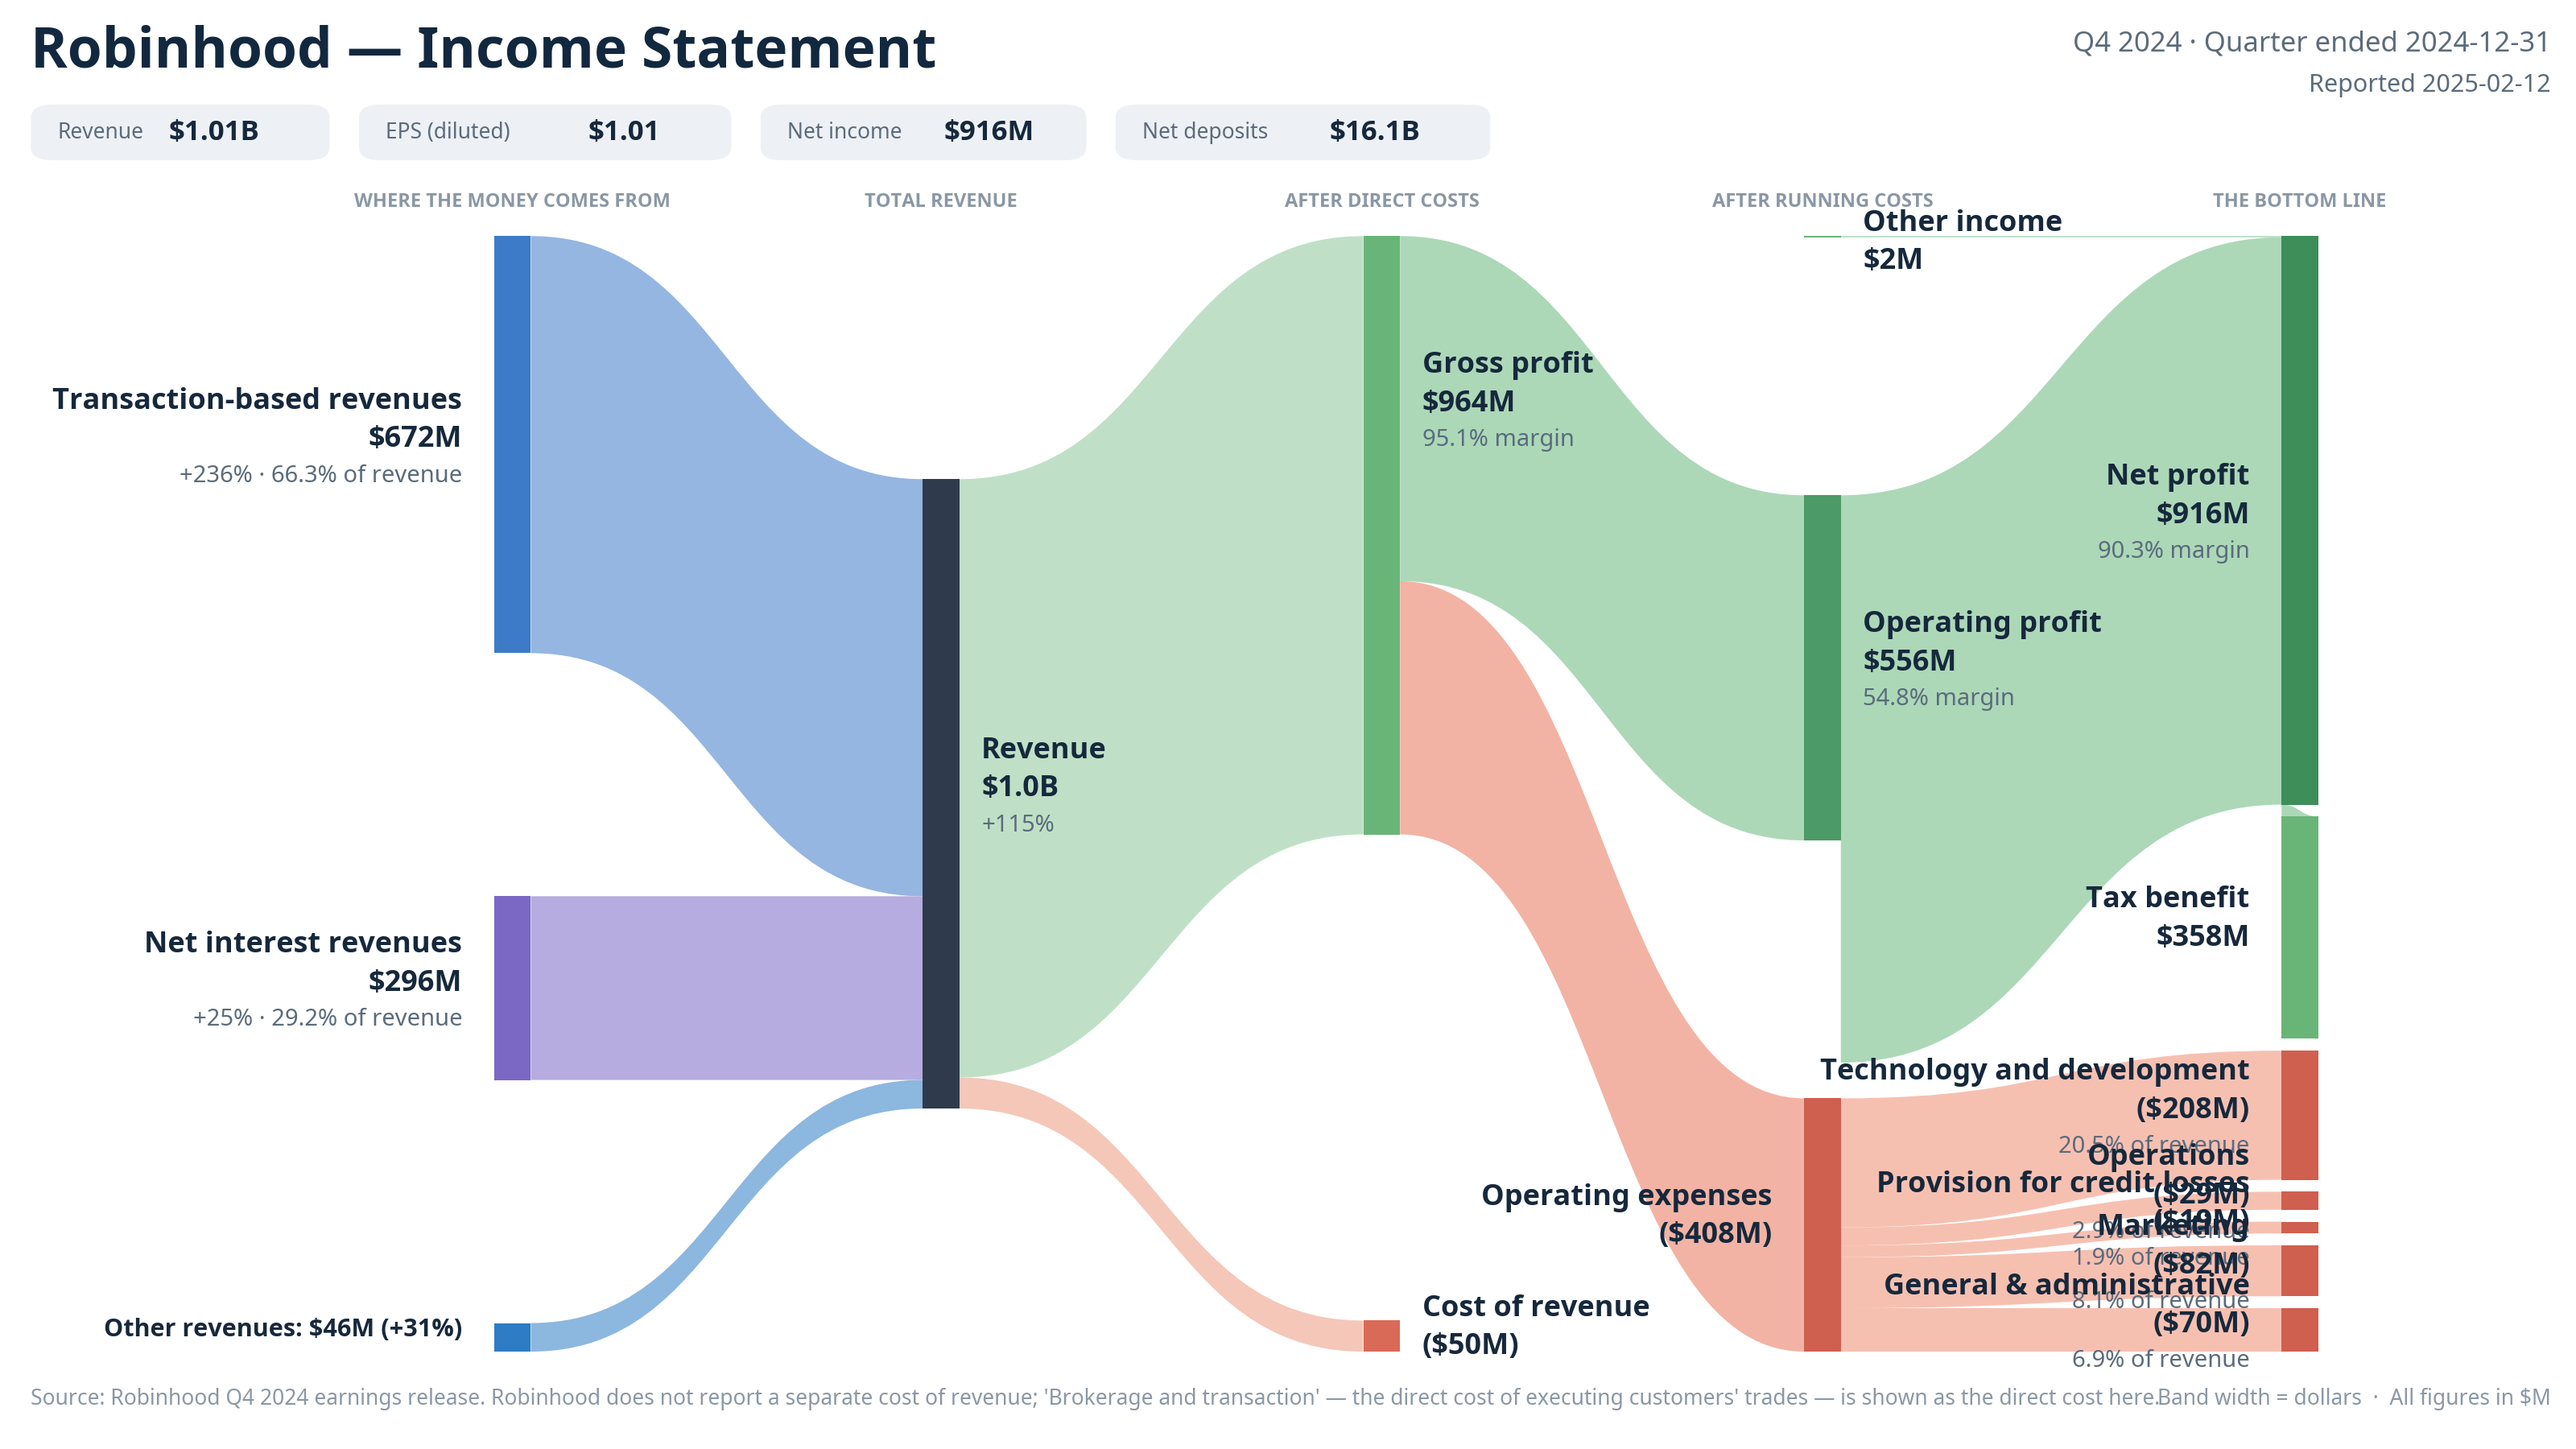
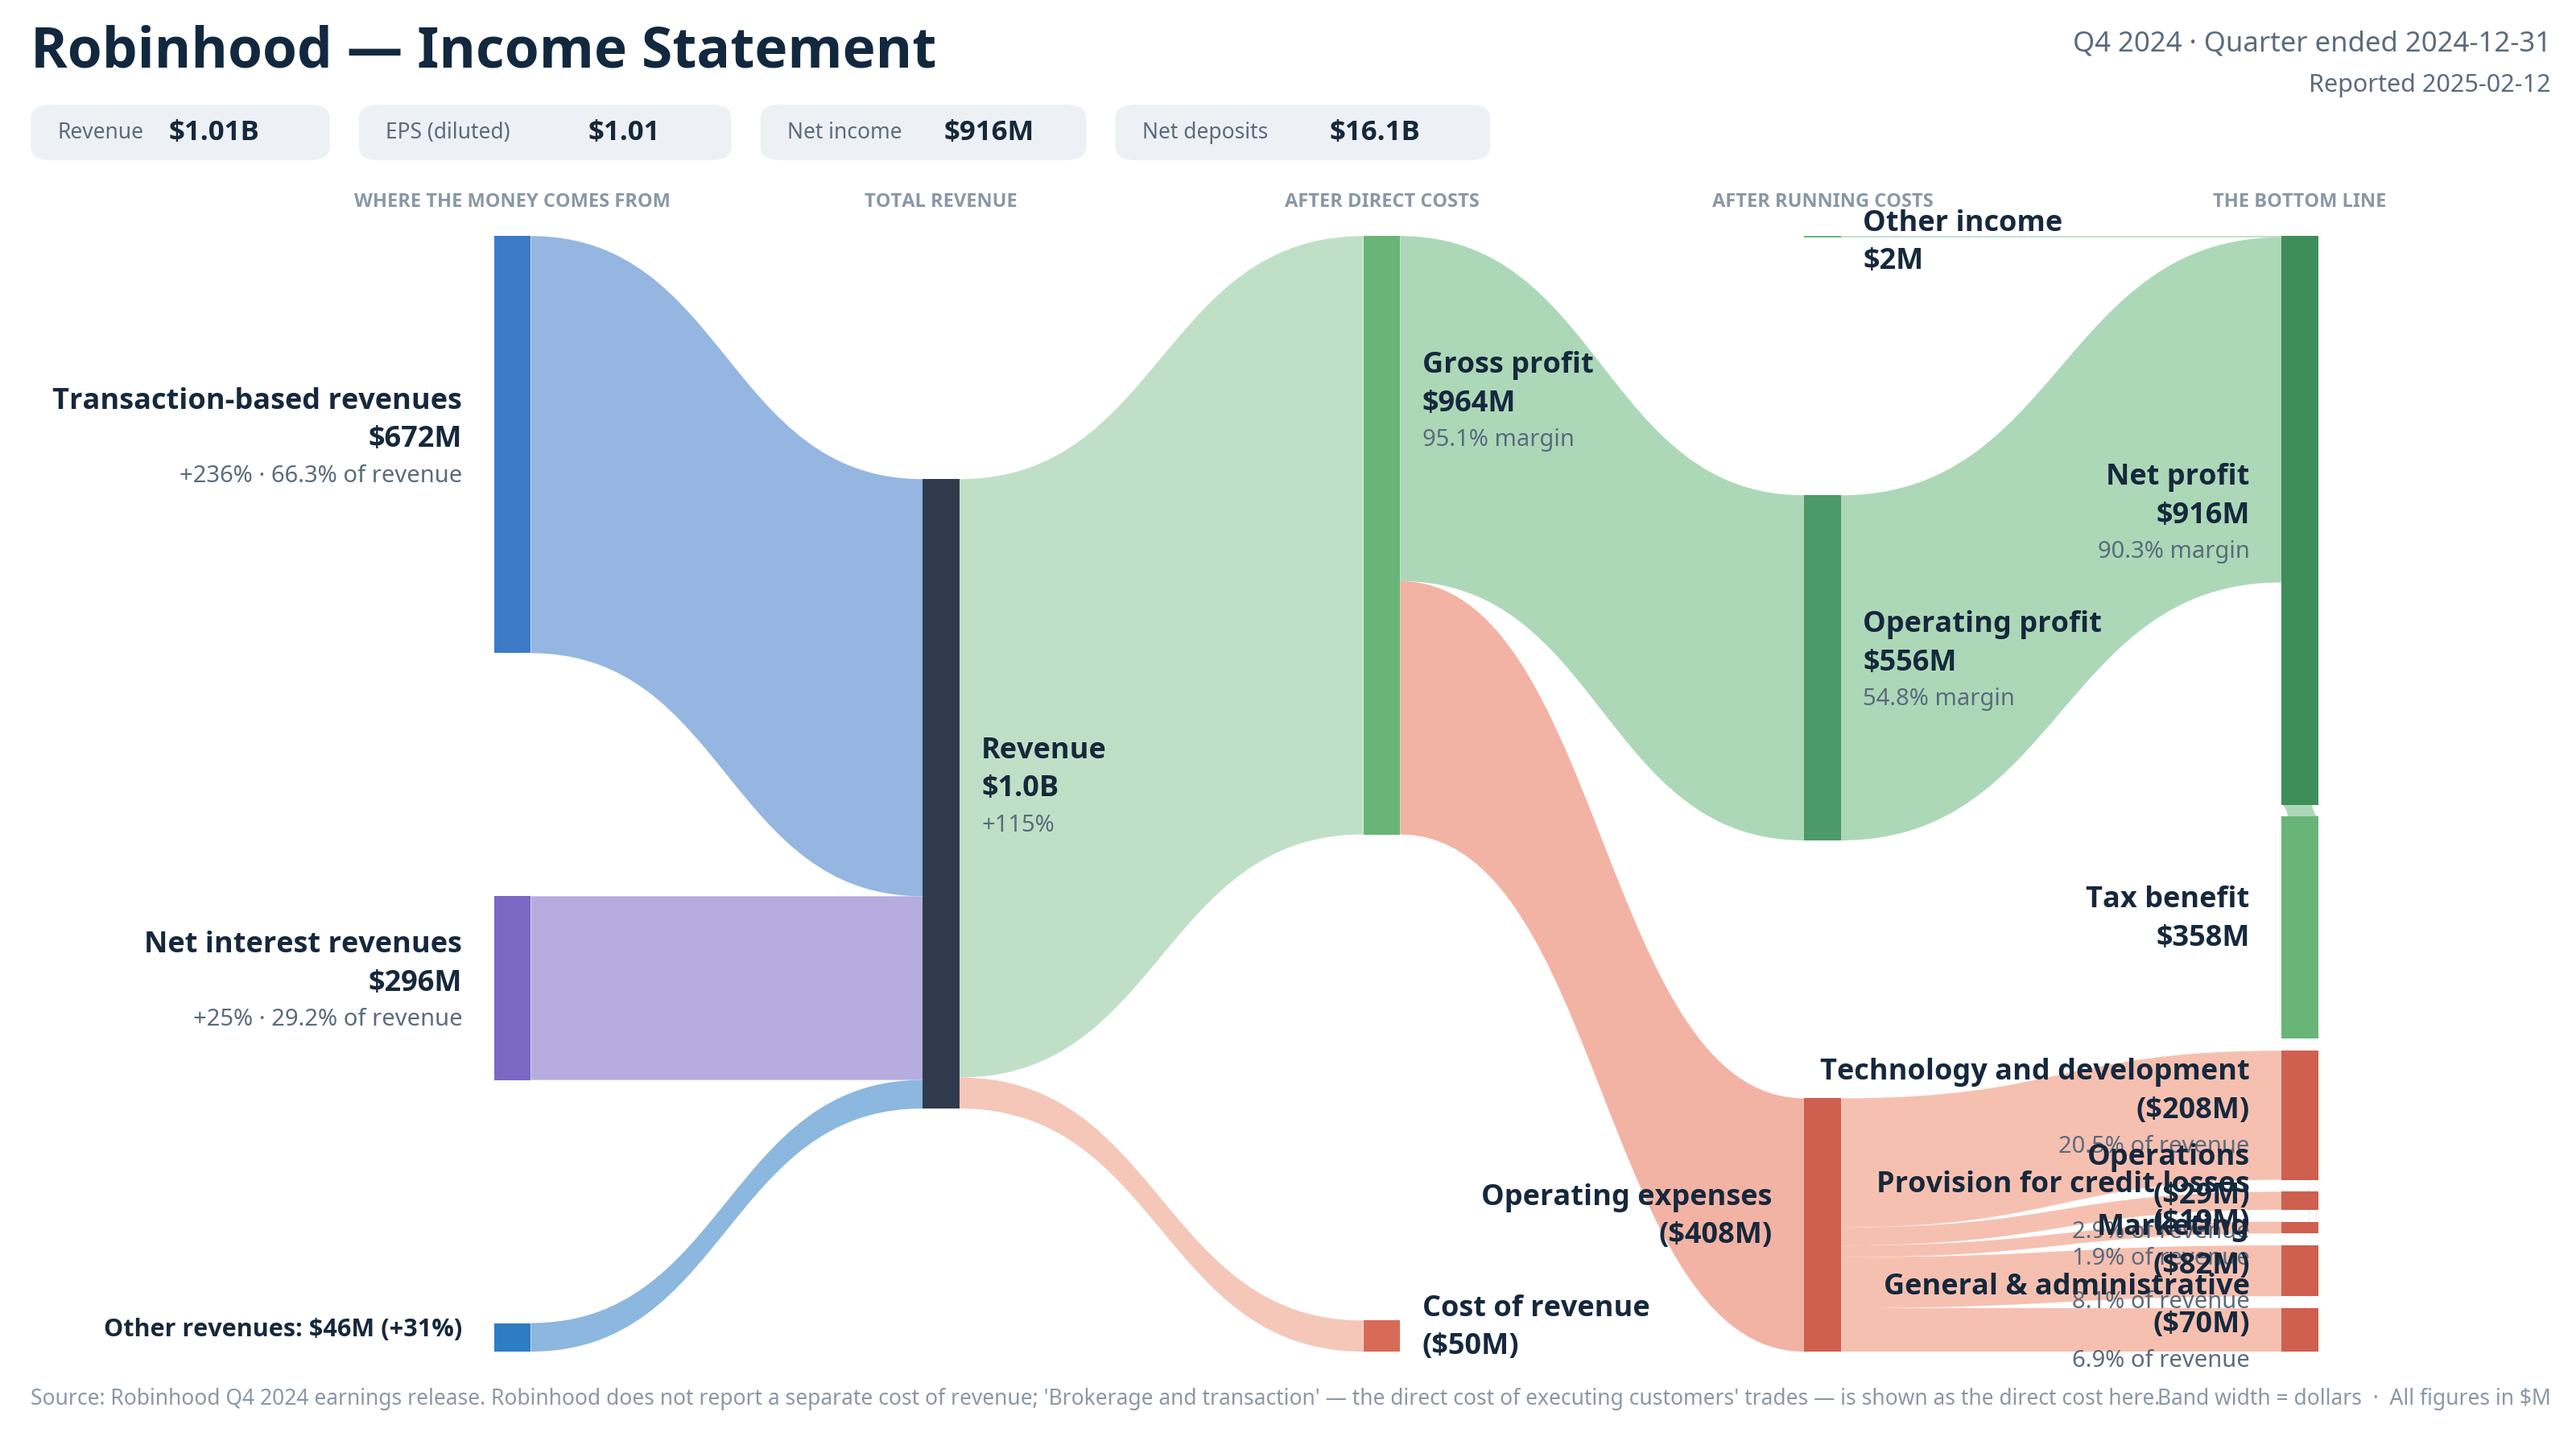
Fix HOOD 2024-q4 chart: op->net link tax-benefit double-count (0.914 -> 0.556; inflows now = net 0.916)

Changed region(s): [[0.6875, 0.4044, 0.9062, 0.7467]]

diff --git a/docs/earnings/hood/2024-q4/index.html b/docs/earnings/hood/2024-q4/index.html
@@ -213,7 +213,7 @@
   </footer>
 </div>
 </div>
-<script>window.REPORT = {"revenueB":1.014,"nodes":{"seg0":{"name":"Transaction-based revenues","amt":"$672M","value":0.672,"col":0,"color":"#3D7BC8","note":"+236% \u00b7 66.3% of revenue","plain":"Fees from customers' trades \u2014 crypto $358M, options $222M and equities $61M.","quarter":"66.3% of all revenue this quarter."},"seg1":{"name":"Net interest revenues","amt":"$296M","value":0.296,"col":0,"color":"#7A68C4","note":"+25% \u00b7 29.2% of revenue","plain":"Interest on customers' cash and margin loans, plus securities lending \u2014 up on growth in interest-earning assets, partly offset by a lower federal funds rate.","quarter":"29.2% of all revenue this quarter."},"seg2":{"name":"Other revenues","amt":"$46M","value":0.046,"col":0,"color":"#2E7CC4","note":"+31% \u00b7 4.5% of revenue","plain":"Mostly Robinhood Gold subscriptions \u2014 2.6M subscribers, up 86%.","quarter":"4.5% of all revenue this quarter.","compact":true,"compactLabel":"Other revenues: $46M (+31%)"},"rev":{"name":"Revenue","amt":"$1.0B","value":1.014,"col":1,"color":"#2F3B4C","note":"+115%","plain":"All the money Robinhood took in during the three months \u2014 the top line everything else is carved out of.","quarter":"$1.0B, +115% vs a year ago."},"gross":{"name":"Gross profit","amt":"$964M","value":0.964,"col":2,"color":"#69B578","note":"95.1% margin","plain":"What's left after paying the direct cost of delivering what was sold.","quarter":"95.1 cents of every revenue dollar survived this step."},"cost":{"name":"Cost of revenue","amt":"($50M)","value":0.05,"col":2,"color":"#D96A57","note":"","plain":"The direct bill for making and delivering what was sold.","quarter":"$50M \u2014 about 4.9 cents per revenue dollar."},"otherin":{"name":"Other income","amt":"$2M","value":0.002,"col":3,"color":"#69B578","note":"","plain":"Other income, net was $2M \u2014 small next to the main business. The tax line is a $358M benefit, driven by a $369M deferred tax benefit from releasing the valuation allowance on most of Robinhood's deferred tax assets.","quarter":"$2M added to profit."},"op":{"name":"Operating profit","amt":"$556M","value":0.556,"col":3,"color":"#4C9A67","note":"54.8% margin","plain":"What the core business earned after all running costs, before tax and other income.","quarter":"A 54.8% margin."},"opex":{"name":"Operating expenses","amt":"($408M)","value":0.408,"col":3,"color":"#CF5F4E","note":"","plain":"The cost of running and growing the company: research, selling, and the back office.","quarter":"$408M total, split into Technology and development, Operations, Provision for credit losses, Marketing, General & administrative on the right."},"ox0":{"name":"Technology and development","amt":"($208M)","value":0.208,"col":4,"color":"#CF5F4E","note":"20.5% of revenue","plain":"Engineers and the platform \u2014 up 6%.","quarter":"$208M \u2014 20.5% of revenue."},"ox1":{"name":"Operations","amt":"($29M)","value":0.029,"col":4,"color":"#CF5F4E","note":"2.9% of revenue","plain":"Customer support and running the service \u2014 up 12%.","quarter":"$29M \u2014 2.9% of revenue."},"ox2":{"name":"Provision for credit losses","amt":"($19M)","value":0.019,"col":4,"color":"#CF5F4E","note":"1.9% of revenue","plain":"Money set aside for customer loans that may not be repaid \u2014 up 36%.","quarter":"$19M \u2014 1.9% of revenue."},"ox3":{"name":"Marketing","amt":"($82M)","value":0.082,"col":4,"color":"#CF5F4E","note":"8.1% of revenue","plain":"Advertising and promotions to win new customers \u2014 up 91%.","quarter":"$82M \u2014 8.1% of revenue."},"ox4":{"name":"General & administrative","amt":"($70M)","value":0.07,"col":4,"color":"#CF5F4E","note":"6.9% of revenue","plain":"Legal, finance and head office \u2014 down 47%, because the line includes a $55M benefit from reversing a regulatory settlement accrual.","quarter":"$70M \u2014 6.9% of revenue."},"net":{"name":"Net profit","amt":"$916M","value":0.916,"col":4,"color":"#3E8E5A","note":"90.3% margin","plain":"The bottom line \u2014 what Robinhood actually earned after everything.","quarter":"$916M \u2014 about 90.3 cents of every revenue dollar."},"taxben":{"name":"Tax benefit","amt":"$358M","value":0.358,"col":4,"color":"#69B578","note":"","plain":"The tax line added money back instead of taking it \u2014 a $358M benefit this quarter, drawn here as its own source into net profit.","quarter":"$358M added to the bottom line."}},"cols":[["seg0","seg1","seg2"],["rev"],["gross","cost"],["otherin","op","opex"],["net","taxben","ox0","ox1","ox2","ox3","ox4"]],"links":[{"s":"seg0","d":"rev","v":0.672,"c":"#94b6e1","amt":"$672M"},{"s":"seg1","d":"rev","v":0.296,"c":"#b6acdf","amt":"$296M"},{"s":"seg2","d":"rev","v":0.046,"c":"#8cb7df","amt":"$46M"},{"s":"rev","d":"gross","v":0.964,"c":"#BFE0C6","amt":"$964M"},{"s":"rev","d":"cost","v":0.05,"c":"#F4C7B9","amt":"$50M"},{"s":"gross","d":"op","v":0.556,"c":"#ACD8B8","amt":"$556M"},{"s":"gross","d":"opex","v":0.408,"c":"#F2B3A4","amt":"$408M"},{"s":"op","d":"net","v":0.914,"c":"#ACD8B8","amt":"$914M"},{"s":"otherin","d":"net","v":0.002,"c":"#ACD8B8","amt":"$2M"},{"s":"taxben","d":"net","v":0.358,"c":"#ACD8B8","amt":"$358M"},{"s":"opex","d":"ox0","v":0.208,"c":"#F6C0B1","amt":"$208M"},{"s":"opex","d":"ox1","v":0.029,"c":"#F6C0B1","amt":"$29M"},{"s":"opex","d":"ox2","v":0.019,"c":"#F6C0B1","amt":"$19M"},{"s":"opex","d":"ox3","v":0.082,"c":"#F6C0B1","amt":"$82M"},{"s":"opex","d":"ox4","v":0.07,"c":"#F6C0B1","amt":"$70M"}],"captions":["WHERE THE MONEY COMES FROM","TOTAL REVENUE","AFTER DIRECT COSTS","AFTER RUNNING COSTS","THE BOTTOM LINE"]};</script>
+<script>window.REPORT = {"revenueB":1.014,"nodes":{"seg0":{"name":"Transaction-based revenues","amt":"$672M","value":0.672,"col":0,"color":"#3D7BC8","note":"+236% \u00b7 66.3% of revenue","plain":"Fees from customers' trades \u2014 crypto $358M, options $222M and equities $61M.","quarter":"66.3% of all revenue this quarter."},"seg1":{"name":"Net interest revenues","amt":"$296M","value":0.296,"col":0,"color":"#7A68C4","note":"+25% \u00b7 29.2% of revenue","plain":"Interest on customers' cash and margin loans, plus securities lending \u2014 up on growth in interest-earning assets, partly offset by a lower federal funds rate.","quarter":"29.2% of all revenue this quarter."},"seg2":{"name":"Other revenues","amt":"$46M","value":0.046,"col":0,"color":"#2E7CC4","note":"+31% \u00b7 4.5% of revenue","plain":"Mostly Robinhood Gold subscriptions \u2014 2.6M subscribers, up 86%.","quarter":"4.5% of all revenue this quarter.","compact":true,"compactLabel":"Other revenues: $46M (+31%)"},"rev":{"name":"Revenue","amt":"$1.0B","value":1.014,"col":1,"color":"#2F3B4C","note":"+115%","plain":"All the money Robinhood took in during the three months \u2014 the top line everything else is carved out of.","quarter":"$1.0B, +115% vs a year ago."},"gross":{"name":"Gross profit","amt":"$964M","value":0.964,"col":2,"color":"#69B578","note":"95.1% margin","plain":"What's left after paying the direct cost of delivering what was sold.","quarter":"95.1 cents of every revenue dollar survived this step."},"cost":{"name":"Cost of revenue","amt":"($50M)","value":0.05,"col":2,"color":"#D96A57","note":"","plain":"The direct bill for making and delivering what was sold.","quarter":"$50M \u2014 about 4.9 cents per revenue dollar."},"otherin":{"name":"Other income","amt":"$2M","value":0.002,"col":3,"color":"#69B578","note":"","plain":"Other income, net was $2M \u2014 small next to the main business. The tax line is a $358M benefit, driven by a $369M deferred tax benefit from releasing the valuation allowance on most of Robinhood's deferred tax assets.","quarter":"$2M added to profit."},"op":{"name":"Operating profit","amt":"$556M","value":0.556,"col":3,"color":"#4C9A67","note":"54.8% margin","plain":"What the core business earned after all running costs, before tax and other income.","quarter":"A 54.8% margin."},"opex":{"name":"Operating expenses","amt":"($408M)","value":0.408,"col":3,"color":"#CF5F4E","note":"","plain":"The cost of running and growing the company: research, selling, and the back office.","quarter":"$408M total, split into Technology and development, Operations, Provision for credit losses, Marketing, General & administrative on the right."},"ox0":{"name":"Technology and development","amt":"($208M)","value":0.208,"col":4,"color":"#CF5F4E","note":"20.5% of revenue","plain":"Engineers and the platform \u2014 up 6%.","quarter":"$208M \u2014 20.5% of revenue."},"ox1":{"name":"Operations","amt":"($29M)","value":0.029,"col":4,"color":"#CF5F4E","note":"2.9% of revenue","plain":"Customer support and running the service \u2014 up 12%.","quarter":"$29M \u2014 2.9% of revenue."},"ox2":{"name":"Provision for credit losses","amt":"($19M)","value":0.019,"col":4,"color":"#CF5F4E","note":"1.9% of revenue","plain":"Money set aside for customer loans that may not be repaid \u2014 up 36%.","quarter":"$19M \u2014 1.9% of revenue."},"ox3":{"name":"Marketing","amt":"($82M)","value":0.082,"col":4,"color":"#CF5F4E","note":"8.1% of revenue","plain":"Advertising and promotions to win new customers \u2014 up 91%.","quarter":"$82M \u2014 8.1% of revenue."},"ox4":{"name":"General & administrative","amt":"($70M)","value":0.07,"col":4,"color":"#CF5F4E","note":"6.9% of revenue","plain":"Legal, finance and head office \u2014 down 47%, because the line includes a $55M benefit from reversing a regulatory settlement accrual.","quarter":"$70M \u2014 6.9% of revenue."},"net":{"name":"Net profit","amt":"$916M","value":0.916,"col":4,"color":"#3E8E5A","note":"90.3% margin","plain":"The bottom line \u2014 what Robinhood actually earned after everything.","quarter":"$916M \u2014 about 90.3 cents of every revenue dollar."},"taxben":{"name":"Tax benefit","amt":"$358M","value":0.358,"col":4,"color":"#69B578","note":"","plain":"The tax line added money back instead of taking it \u2014 a $358M benefit this quarter, drawn here as its own source into net profit.","quarter":"$358M added to the bottom line."}},"cols":[["seg0","seg1","seg2"],["rev"],["gross","cost"],["otherin","op","opex"],["net","taxben","ox0","ox1","ox2","ox3","ox4"]],"links":[{"s":"seg0","d":"rev","v":0.672,"c":"#94b6e1","amt":"$672M"},{"s":"seg1","d":"rev","v":0.296,"c":"#b6acdf","amt":"$296M"},{"s":"seg2","d":"rev","v":0.046,"c":"#8cb7df","amt":"$46M"},{"s":"rev","d":"gross","v":0.964,"c":"#BFE0C6","amt":"$964M"},{"s":"rev","d":"cost","v":0.05,"c":"#F4C7B9","amt":"$50M"},{"s":"gross","d":"op","v":0.556,"c":"#ACD8B8","amt":"$556M"},{"s":"gross","d":"opex","v":0.408,"c":"#F2B3A4","amt":"$408M"},{"s":"op","d":"net","v":0.556,"c":"#ACD8B8","amt":"$556M"},{"s":"otherin","d":"net","v":0.002,"c":"#ACD8B8","amt":"$2M"},{"s":"taxben","d":"net","v":0.358,"c":"#ACD8B8","amt":"$358M"},{"s":"opex","d":"ox0","v":0.208,"c":"#F6C0B1","amt":"$208M"},{"s":"opex","d":"ox1","v":0.029,"c":"#F6C0B1","amt":"$29M"},{"s":"opex","d":"ox2","v":0.019,"c":"#F6C0B1","amt":"$19M"},{"s":"opex","d":"ox3","v":0.082,"c":"#F6C0B1","amt":"$82M"},{"s":"opex","d":"ox4","v":0.07,"c":"#F6C0B1","amt":"$70M"}],"captions":["WHERE THE MONEY COMES FROM","TOTAL REVENUE","AFTER DIRECT COSTS","AFTER RUNNING COSTS","THE BOTTOM LINE"]};</script>
 <script src="../../../assets/chart.js"></script>
 </body>
 </html>
